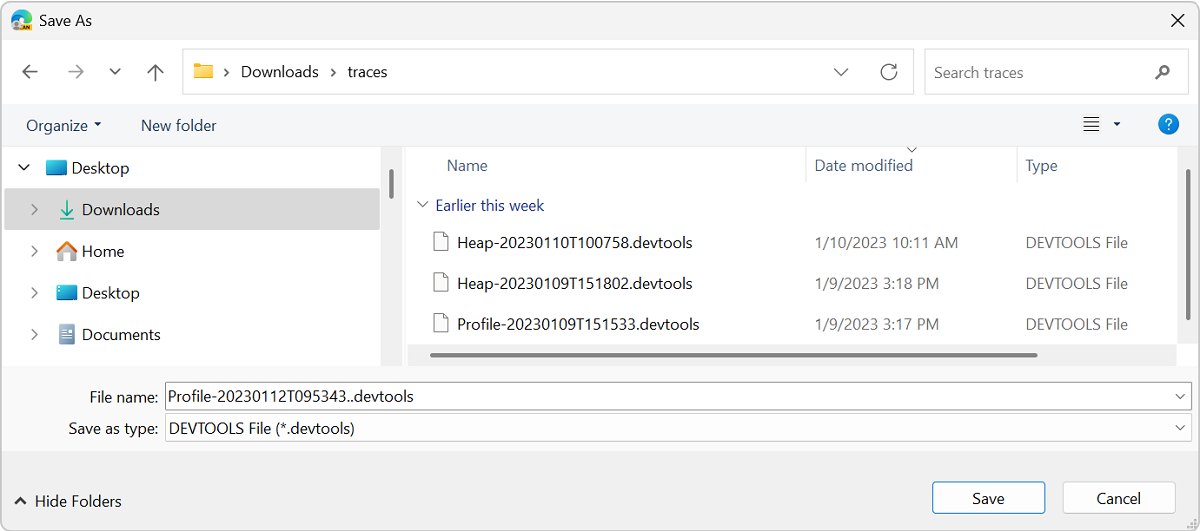
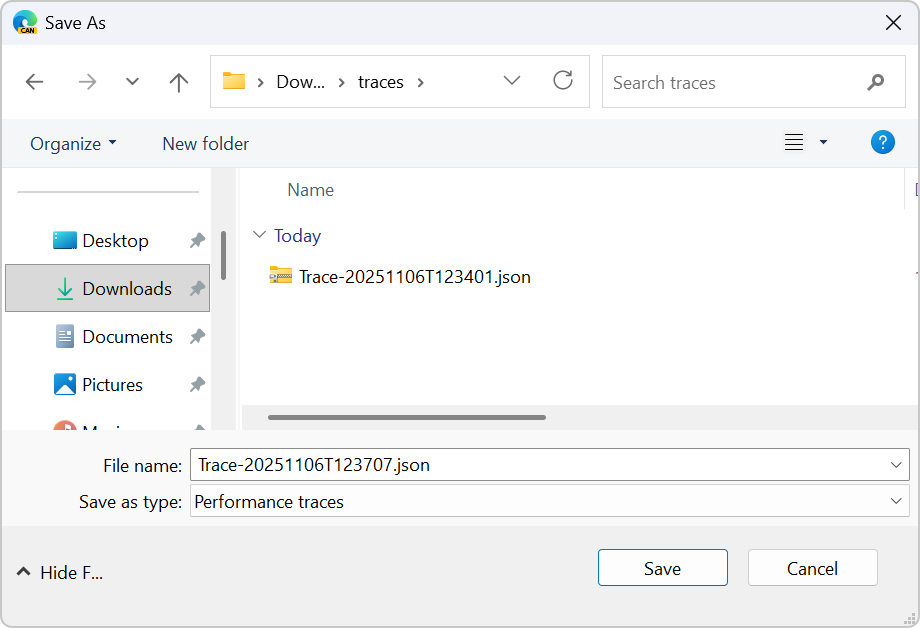
update saving perf trace png

diff --git a/microsoft-edge/devtools/performance/share-performance-traces.md b/microsoft-edge/devtools/performance/share-performance-traces.md
@@ -79,13 +79,13 @@ To record performance for aspects of a webpage, and then export a performance re
 
    For example, on Windows, in the `/Downloads/` directory, click the **New folder** button, and then create a `/traces/` directory, in which to save the performance trace file:
 
-   ![Traces folder](./share-performance-traces-images/saving-perf-trace.png)<!-- todo: issue: png shows .. in filename; extension shown is .devtools not .gz -->
+   ![Traces folder](./share-performance-traces-images/saving-perf-trace.png)
 
-1. Accept or modify the file name, such as `Trace-20251103T154500.json.gz`.
+1. Accept or modify the file name, such as `Trace-20251103T154500.json`.
 
 1. Click the **Save** button.
 
-   The performance trace file is saved, such as `C:\Users\localAccount\Downloads\traces\Trace-20251103T154500.json.gz`.
+   The performance trace file is saved, such as `C:\Users\localAccount\Downloads\traces\Trace-20251103T154500.json`.
 
 
 <!-- ====================================================================== -->
